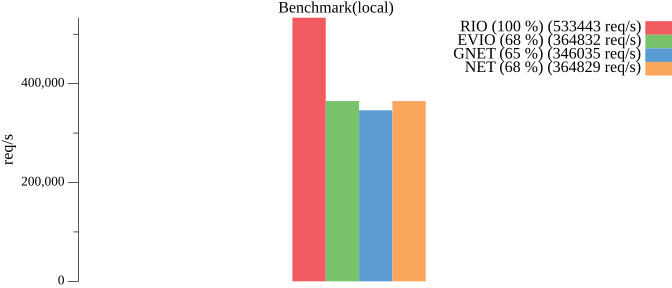
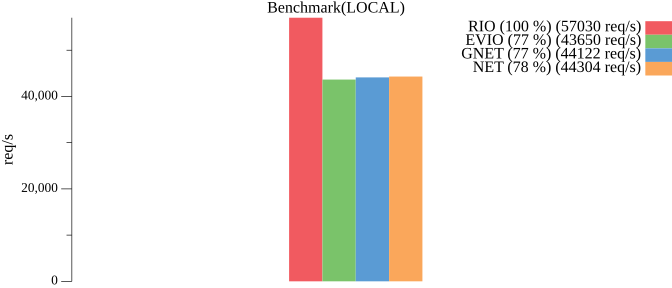
mod

Changed region(s): [[0.375, 0.0, 0.6562, 0.9688], [0.6562, 0.0625, 0.9062, 0.2812], [0.0312, 0.0625, 0.125, 1.0]]

diff --git a/benchmark/local/metric.go b/benchmark/local/metric.go
@@ -8,21 +8,30 @@ import (
 	"time"
 )
 
-func NewMetric(title string) *Metric {
+func NewMetric(title string, msgSize int) *Metric {
 	return &Metric{
-		title: title,
+		title:   title,
+		msgSize: float64(msgSize),
+		failed:  atomic.Uint64{},
+		rn:      atomic.Uint64{},
+		in:      atomic.Uint64{},
+		wn:      atomic.Uint64{},
+		out:     atomic.Uint64{},
+		beg:     time.Time{},
+		end:     time.Time{},
 	}
 }
 
 type Metric struct {
-	title  string
-	failed atomic.Uint64
-	rn     atomic.Uint64
-	in     atomic.Uint64
-	wn     atomic.Uint64
-	out    atomic.Uint64
-	beg    time.Time
-	end    time.Time
+	title   string
+	msgSize float64
+	failed  atomic.Uint64
+	rn      atomic.Uint64
+	in      atomic.Uint64
+	wn      atomic.Uint64
+	out     atomic.Uint64
+	beg     time.Time
+	end     time.Time
 }
 
 func (m *Metric) Begin() {
@@ -69,7 +78,7 @@ func (m *Metric) Title() string {
 
 func (m *Metric) Rate() float64 {
 	d := m.Duration()
-	rp := float64(m.TotalReceived()) / d.Seconds()
+	rp := float64(m.TotalReceived()) / d.Seconds() / m.msgSize
 	return rp
 }
 
@@ -80,8 +89,8 @@ func (m *Metric) String() string {
 	buf.WriteString(fmt.Sprintf("Total data received: %s (%d bytes)\n", commons.FormatBytes(m.TotalReceived()), m.TotalReceived()))
 
 	d := m.Duration()
-	sp := float64(m.TotalSent()) / d.Seconds()
-	rp := float64(m.TotalReceived()) / d.Seconds()
+	sp := float64(m.TotalSent()) / d.Seconds() / m.msgSize
+	rp := float64(m.TotalReceived()) / d.Seconds() / m.msgSize
 
 	buf.WriteString(fmt.Sprintf("sent/sec: %.2f\n", sp))
 	buf.WriteString(fmt.Sprintf("recv/sec: %.2f\n", rp))

diff --git a/benchmark/local/bench.go b/benchmark/local/bench.go
@@ -67,7 +67,7 @@ func Bench(port int, count int, dur time.Duration, msg string, out string) {
 	// write image
 	req := images.Request{
 		Path:  filepath.Join(out, "benchmark_local.png"),
-		Title: "Benchmark(local)",
+		Title: "Benchmark(LOCAL)",
 		Label: "req/s",
 		Items: make([]images.Item, 0, 1),
 	}
@@ -99,14 +99,15 @@ func (c Cause) bench(port int, count int, dur time.Duration, msg string) (met *M
 	c.Serve(port)
 	time.Sleep(50 * time.Millisecond)
 
-	met = NewMetric(c.Name)
+	host := "127.0.0.1"
+	met = NewMetric(c.Name, len(msg))
 	wg := new(sync.WaitGroup)
 	wg.Add(count)
 	met.Begin()
 	for i := 0; i < count; i++ {
-		go func(wg *sync.WaitGroup, port int, dur time.Duration, msg string, met *Metric) {
+		go func(wg *sync.WaitGroup, host string, port int, dur time.Duration, msg string, met *Metric) {
 			defer wg.Done()
-			conn, connErr := c.Dial("tcp", fmt.Sprintf(":%d", port))
+			conn, connErr := c.Dial("tcp", fmt.Sprintf("%s:%d", host, port))
 			if connErr != nil {
 				met.IncrFailed()
 				return
@@ -147,7 +148,7 @@ func (c Cause) bench(port int, count int, dur time.Duration, msg string) (met *M
 				}
 			}
 			_ = conn.Close()
-		}(wg, port, dur, msg, met)
+		}(wg, host, port, dur, msg, met)
 	}
 	wg.Wait()
 	met.End()

diff --git a/benchmark/main.go b/benchmark/main.go
@@ -23,7 +23,7 @@ func main() {
 	)
 	flag.StringVar(&host, "host", "192.168.100.120", "host for tcpkali mode")
 	flag.IntVar(&port, "port", 9000, "server base port")
-	flag.StringVar(&mode, "mode", "tcpkali", "local: bench local case, tcpkali: use tcpkali to bench, server: run tcp server")
+	flag.StringVar(&mode, "mode", "", "local: bench local case, tcpkali: use tcpkali to bench, server: run tcp server")
 	flag.IntVar(&count, "count", 50, "connection count, max is 500")
 	flag.StringVar(&dur, "time", "10s", "time duration")
 	flag.IntVar(&repeat, "repeat", 0, "repeat per connection")
@@ -32,6 +32,7 @@ func main() {
 	flag.StringVar(&msg, "msg", "", "message")
 	flag.Parse()
 
+	host = strings.TrimSpace(host)
 	if port <= 0 || port > 65535 {
 		port = 9000
 	}
@@ -71,6 +72,7 @@ func main() {
 			d = 10 * time.Second
 			fmt.Println("dur is too small, use 10s.")
 		}
+
 		local.Bench(port, count, d, msg, out)
 		break
 	}
